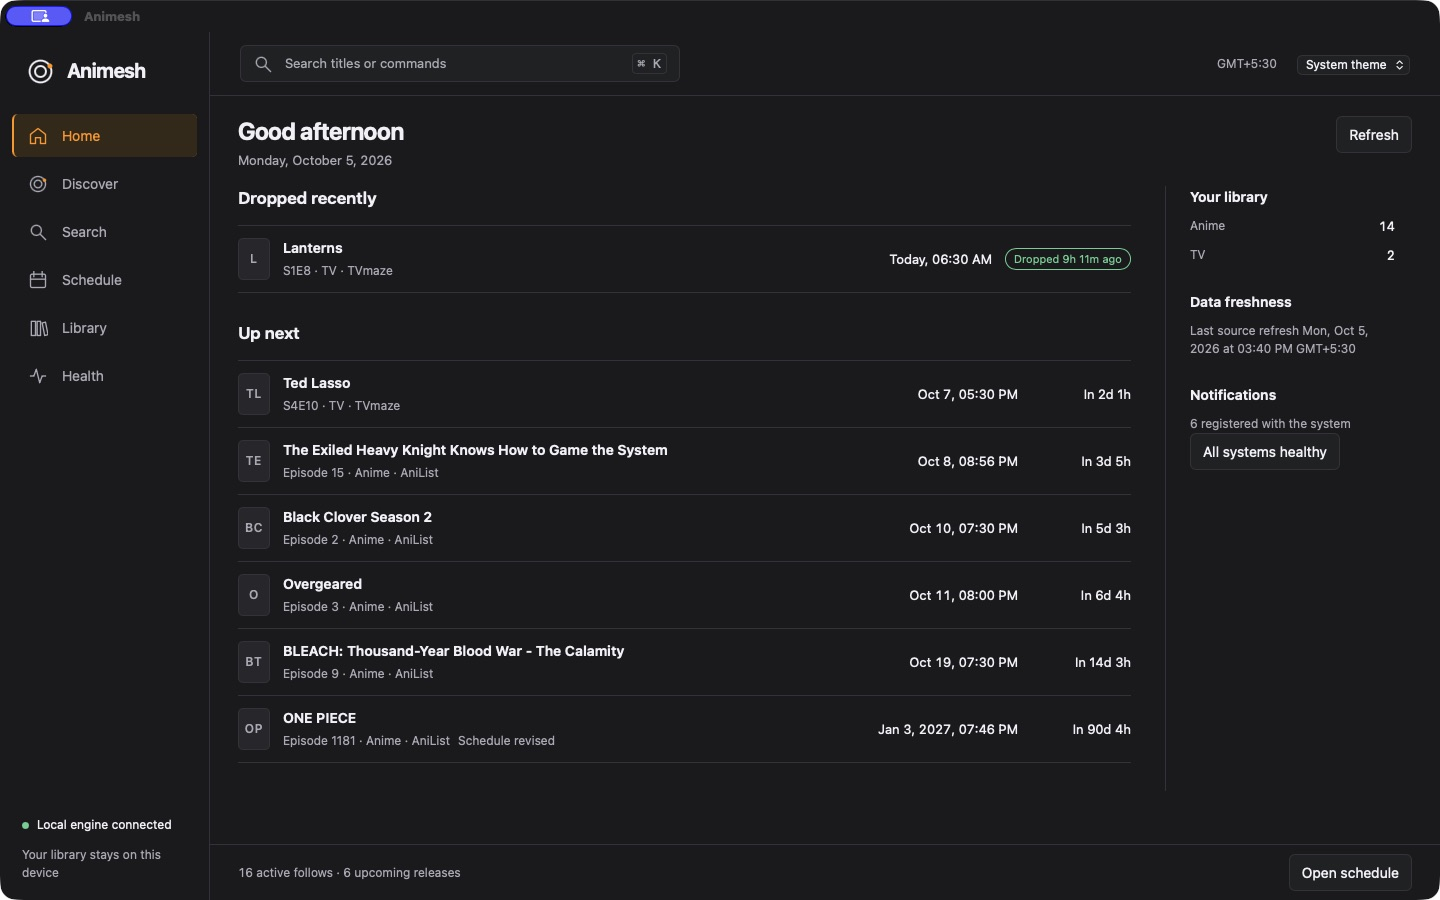
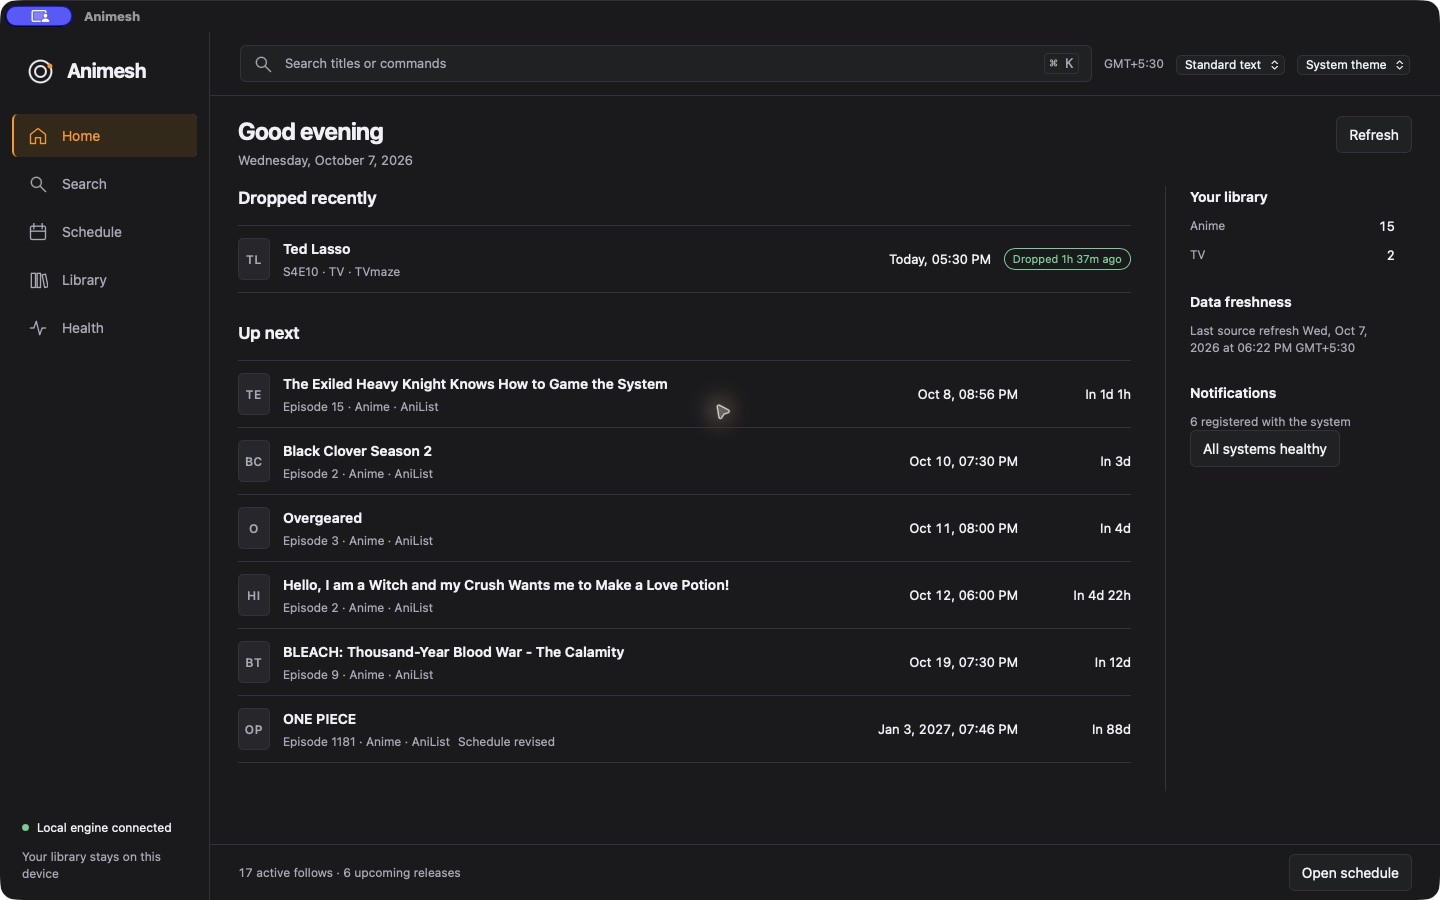
Remove obsolete discovery screenshots and update app references

diff --git a/site/index.html b/site/index.html
@@ -9,7 +9,7 @@
   <meta property="og:description" content="Follow your shows. Get a reminder when the next episode releases. Free for macOS and Linux.">
   <meta property="og:type" content="website">
   <meta property="og:url" content="https://animesh.syntropicsystems.dev/">
-  <meta property="og:image" content="https://animesh.syntropicsystems.dev/assets/share.png">
+  <meta property="og:image" content="https://animesh.syntropicsystems.dev/assets/screenshots/mac-home.png">
   <meta name="twitter:card" content="summary_large_image">
   <link rel="canonical" href="https://animesh.syntropicsystems.dev/">
   <link rel="icon" href="assets/icon.png">
@@ -35,12 +35,11 @@
         <button type="button" data-view="home" aria-pressed="true">Home</button>
         <button type="button" data-view="schedule" aria-pressed="false">Schedule</button>
         <button type="button" data-view="library" aria-pressed="false">Library</button>
-        <button type="button" data-view="linux" aria-pressed="false">Linux</button>
         <button type="button" data-view="menubar" aria-pressed="false">Menu bar</button>
         <button type="button" data-view="terminal" aria-pressed="false">Terminal</button>
       </div>
       <figure>
-        <a id="view-full" href="assets/screenshots/mac-home.png" aria-label="Open full-size screenshot"><img id="view-image" src="assets/screenshots/mac-home.png" width="1440" height="900" alt="Animesh Home showing recent and upcoming episodes from a library of 16 followed shows."></a>
+        <a id="view-full" href="assets/screenshots/mac-home.png" aria-label="Open full-size screenshot"><img id="view-image" src="assets/screenshots/mac-home.png" width="1440" height="900" alt="Animesh Home showing recent and upcoming episodes from followed anime and TV shows."></a>
         <figcaption aria-live="polite"><span id="view-caption">What dropped. What’s next.</span> <a id="terminal-search" href="assets/screenshots/cli-search.png" hidden>Search example</a></figcaption>
       </figure>
     </section>

diff --git a/site/app.js b/site/app.js
@@ -1,8 +1,7 @@
 const views = {
-  home: ["mac-home.png", "Animesh Home showing recent and upcoming episodes from a library of 16 followed shows.", "What dropped. What’s next."],
+  home: ["mac-home.png", "Animesh Home showing recent and upcoming episodes from followed anime and TV shows.", "What dropped. What’s next."],
   schedule: ["mac-schedule.png", "Animesh Schedule showing upcoming anime and TV episodes by date.", "Your upcoming episodes, by date."],
   library: ["mac-library.png", "Animesh Library showing followed anime and TV shows and their next episodes.", "The shows you follow."],
-  linux: ["linux-discover.png", "Animesh Discover running on Ubuntu, with airing anime and Follow buttons.", "On Linux, too."],
   menubar: ["mac-menubar.png", "Animesh’s Mac menu bar showing upcoming releases and an Open Animesh button.", "A quick look from the Mac menu bar."],
   terminal: ["cli-next.png", "Actual animesh next terminal output listing upcoming episodes and release times.", "The same library, from your terminal."],
 };

diff --git a/docs/public/desktop.md b/docs/public/desktop.md
@@ -13,11 +13,13 @@ Animesh 0.7.0 adds a desktop app for macOS and Linux, and TV shows alongside ani
 
 The [first article](/writing/animesh/) explained why a notification app needs a process that stays running. That part has not changed. The desktop window gives the same library a more useful way to browse.
 
+**Update, October 7:** The current development build removes Discover and its background catalog storage. Finding a new title is now an explicit search → follow action. This change will be in the next packaged release.
+
 ## One library, several ways to use it
 
-The window has Home, Discover, Search, Schedule, Library, and Health. Home shows what recently dropped and what is next. Schedule groups episodes by date. Health shows whether the background service, sources, and notifications need attention.
+The window has Home, Search, Schedule, Library, and Health. Home shows what recently dropped and what is next. Schedule groups episodes by date. Health shows whether the background service, sources, and notifications need attention.
 
-![Animesh Home on macOS, showing recently released episodes, upcoming shows, and a summary of 16 followed titles.](https://animesh.syntropicsystems.dev/assets/screenshots/mac-home.png)
+![Animesh Home on macOS, showing recently released episodes, upcoming shows, and a summary of followed titles.](https://animesh.syntropicsystems.dev/assets/screenshots/mac-home.png)
 
 The window does not open SQLite or fetch schedules itself. It sends requests to the existing engine over the local socket. The CLI uses that same engine, and the Mac menu bar reads the same followed titles. Following a show in one place makes it available in the others.
 

diff --git a/site/README.md b/site/README.md
@@ -12,8 +12,7 @@ The address is `https://animesh.syntropicsystems.dev/`, served by the
 then deploy with `npx wrangler deploy` using the root `wrangler.jsonc`.
 The Worker serves only static assets; downloads remain on GitHub.
 
-Screenshots are real app captures. macOS captures use the maintainer’s library;
-Linux captures come from the native WebKit release smoke test. Terminal images
+Screenshots are real app captures. macOS captures use the maintainer’s library. Terminal images
 render actual read-only command output in a terminal frame. Dates are sample
 views from capture time, not a live airing schedule. The screenshot viewer
 leaves the interface unchanged. Share images use the actual app capture.
